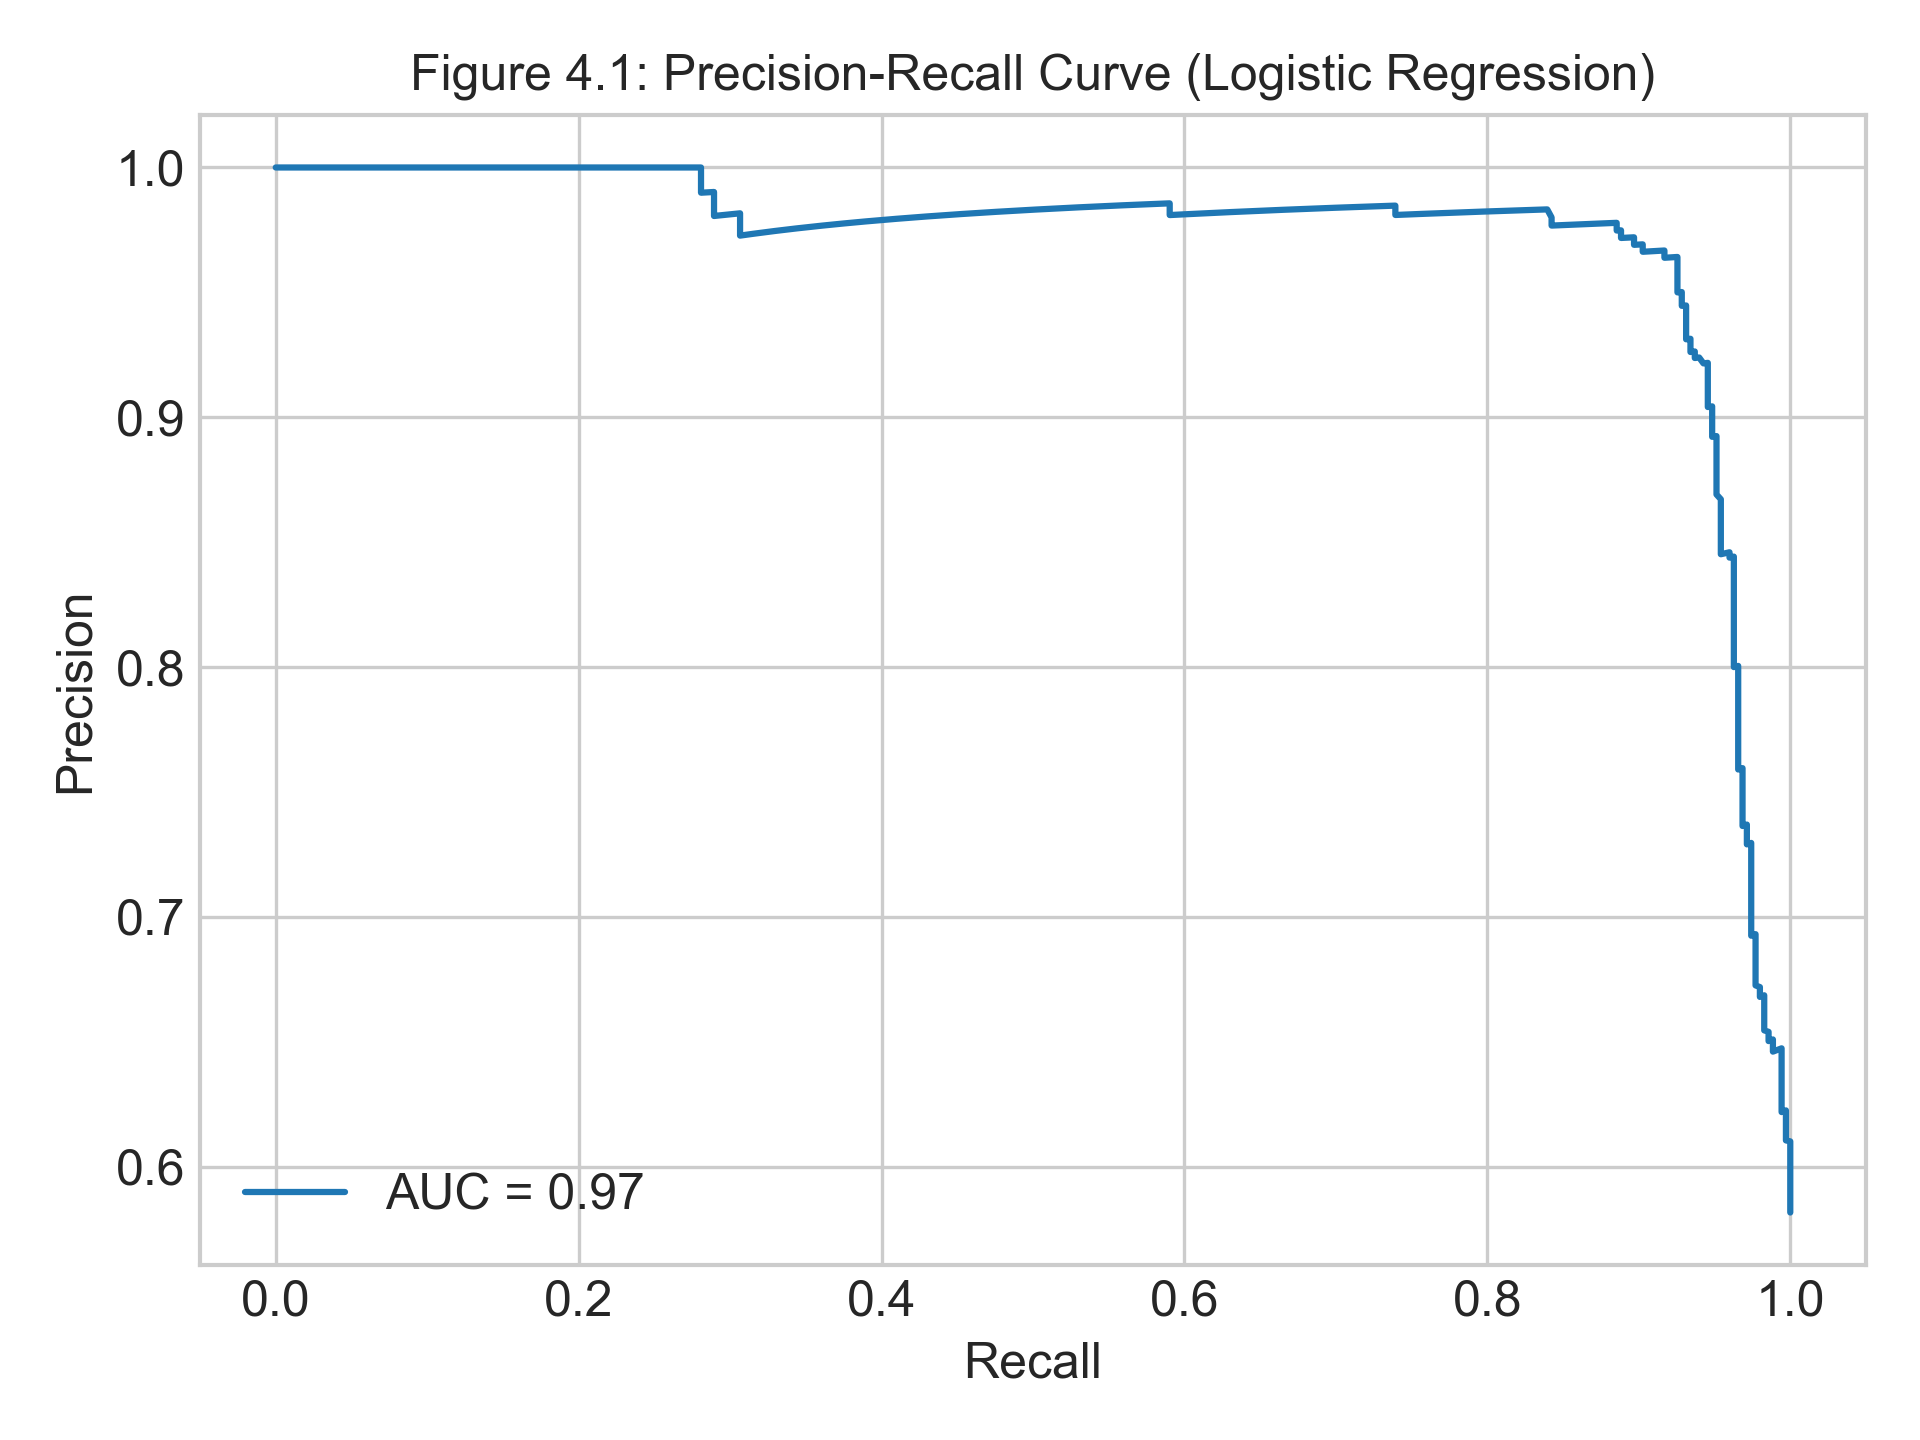
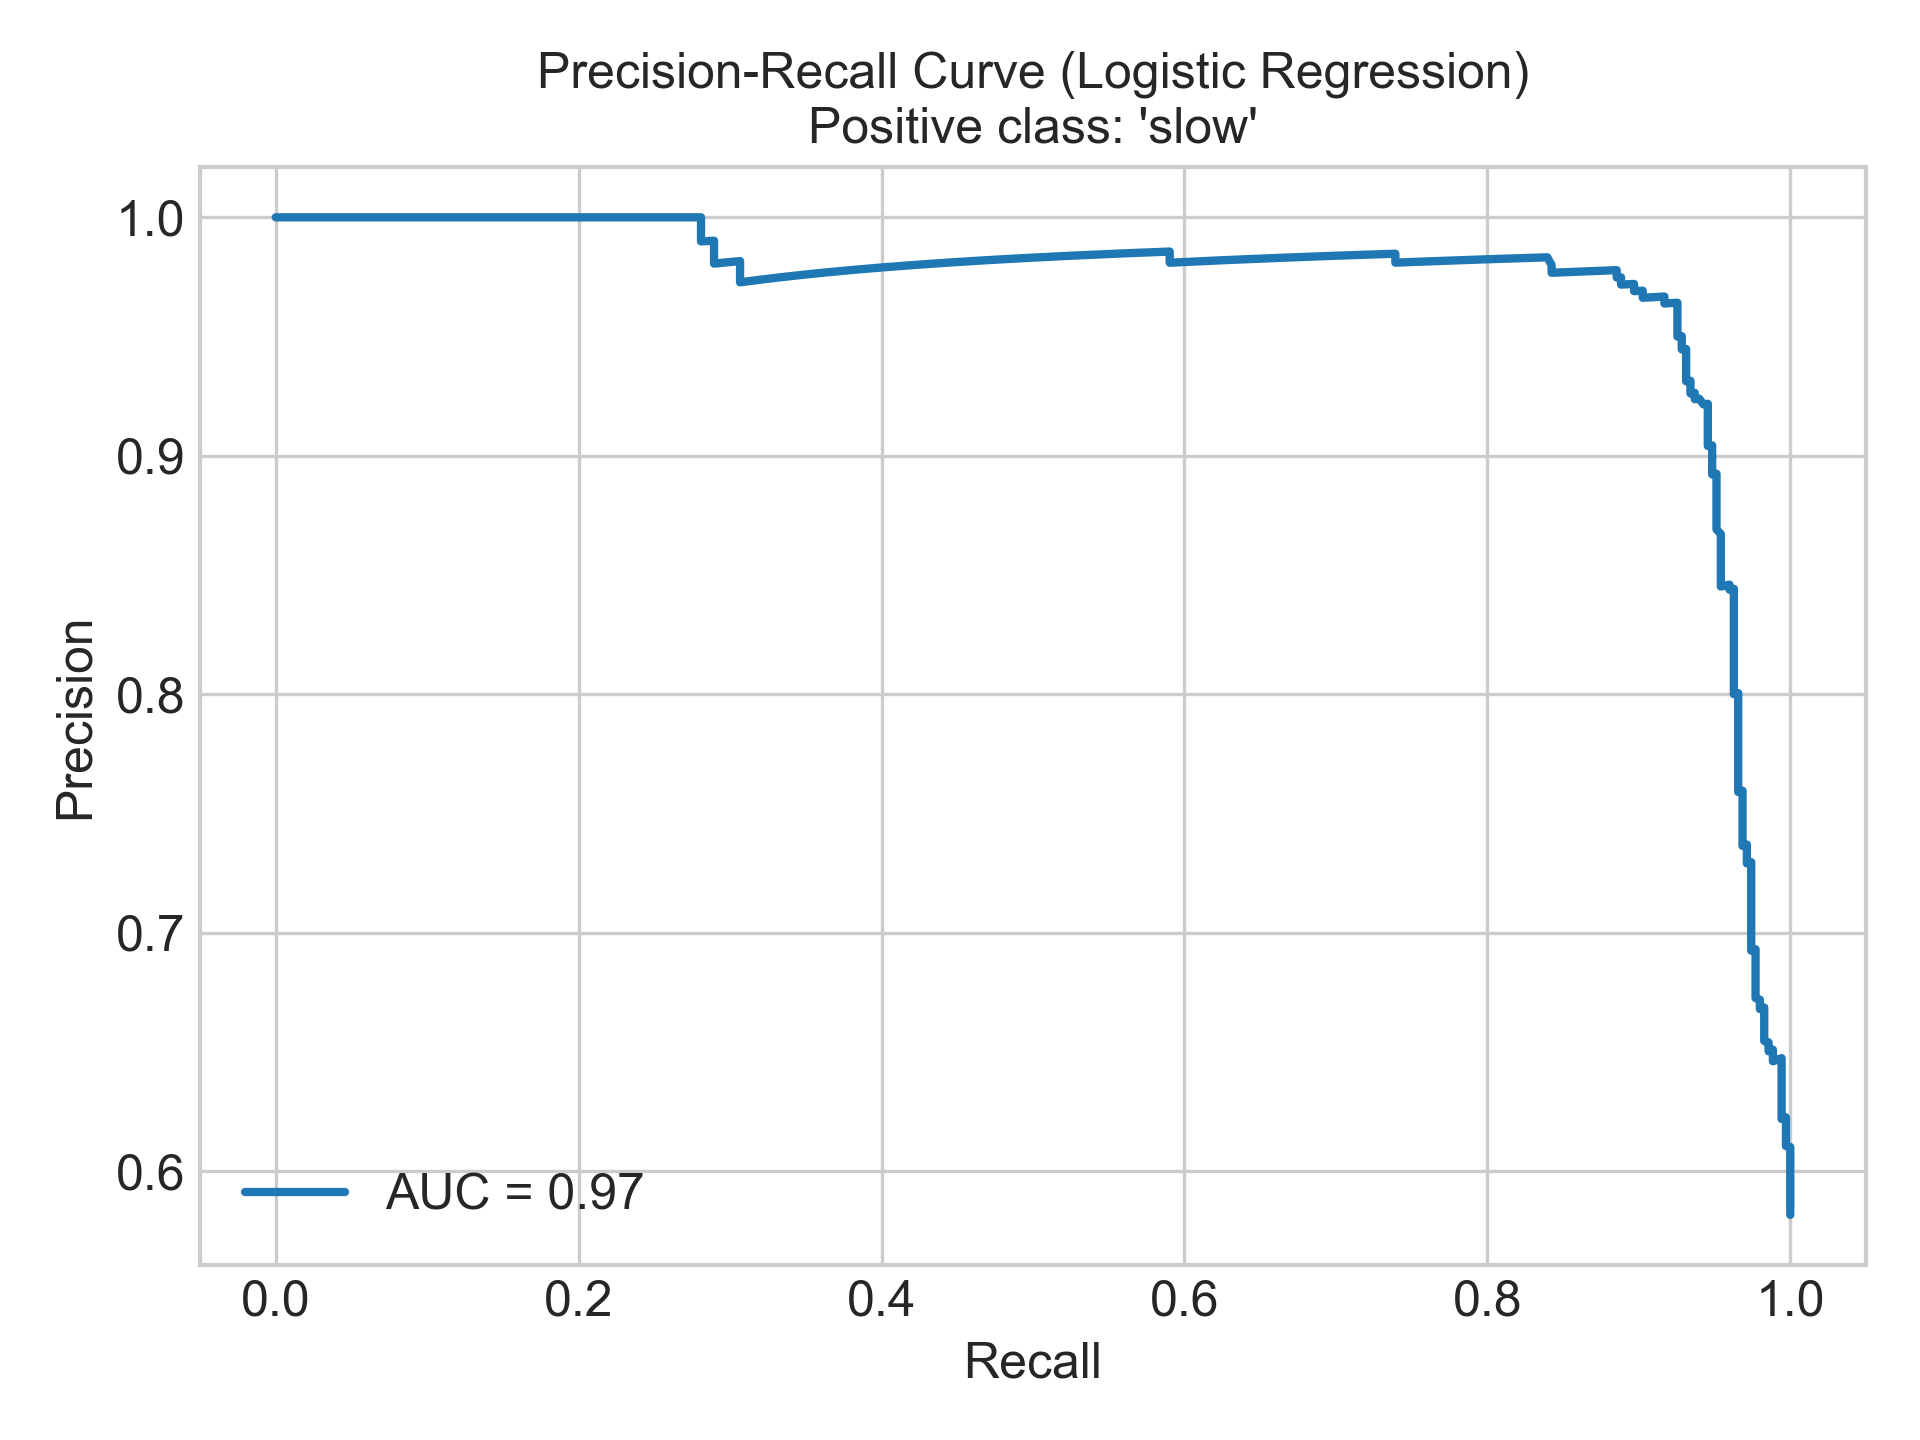
fix

diff --git a/ml/generate_figures.py b/ml/generate_figures.py
@@ -1,4 +1,4 @@
-"""Generate documentation figures for the project (Improved)."""
+"""Generate improved documentation figures for the project."""
 
 from __future__ import annotations
 from pathlib import Path
@@ -18,36 +18,13 @@ from sklearn.metrics import (
     precision_recall_curve,
     roc_curve,
     auc,
+    classification_report
 )
 
 # ---------- Paths ----------
 DATASET = Path(__file__).with_name("dataset.csv")
 FIG_DIR = Path(__file__).with_name("figures")
 FIG_DIR.mkdir(exist_ok=True)
-
-
-# ---------- Figure 1.1 Pipeline Overview ----------
-
-def pipeline_overview():
-    fig, ax = plt.subplots(figsize=(12, 2))
-    ax.axis('off')
-    stages = [
-        "Synthetic\nData",
-        "AST\nParsing",
-        "Feature\nExtraction",
-        "Model\nTraining",
-        "Evaluation",
-        "CLI\nIntegration",
-    ]
-    for i, stage in enumerate(stages):
-        ax.add_patch(Rectangle((i*1.8, 0.4), 1.6, 0.8, edgecolor='black', facecolor='#e0e0e0'))
-        ax.text(i*1.8+0.8, 0.8, stage, ha='center', va='center', fontsize=10)
-        if i < len(stages)-1:
-            ax.add_patch(FancyArrow(i*1.8+1.6, 0.8, 0.2, 0, width=0.03, length_includes_head=True, head_width=0.2))
-    ax.set_title("Figure 1.1: Project Pipeline Overview", fontsize=12)
-    fig.tight_layout()
-    fig.savefig(FIG_DIR / 'pipeline_overview.png', dpi=300)
-    plt.close(fig)
 
 
 # ---------- Utility: train simple model ----------
@@ -69,65 +46,85 @@ def load_and_train():
     return model, X_te, y_te, scaler
 
 
-# ---------- Figure 2.1 Sample Synthetic Component ----------
-
-def component_snippet():
-    src = (
-        Path(__file__).resolve().parents[1]
-        / "synthetic-react-app"
-        / "src"
-        / "pages"
-        / "test-data"
-        / "inefficientcontextTest1"
-        / "Parent.tsx"
-    )
-    code = src.read_text().splitlines()[:25]
-    fig, ax = plt.subplots(figsize=(8, 6))
-    ax.axis("off")
-    ax.text(0, 1, "\n".join(code), family="monospace", va="top", fontsize=10)
-    ax.set_title("Figure 2.1: Sample Synthetic React Component Snippet", fontsize=12)
-    fig.tight_layout()
-    fig.savefig(FIG_DIR / "component_snippet.png", dpi=300)
-    plt.close(fig)
-
-
 # ---------- Figure 3.1 Feature Distributions ----------
+
+# def feature_distribution():
+#     df = pd.read_csv(DATASET)
+#     features = [c for c in ["depth", "expensiveEffects", "bulkDOMNodes", "hasLargeImage"] if c in df.columns]
+#     fig, axes = plt.subplots(1, len(features), figsize=(5 * len(features), 4))
+#     if len(features) == 1:
+#         axes = [axes]
+#     for ax, feat in zip(axes, features):
+#         if df[feat].dropna().nunique() <= 2:
+#             counts = df[feat].value_counts().sort_index()
+#             ax.bar(counts.index.astype(str), counts.values, color="#4c72b0")
+#         else:
+#             ax.hist(df[feat], bins=10, color="#4c72b0")
+#         ax.set_title(feat, fontsize=10)
+#         ax.set_ylabel("Number of Components", fontsize=9)
+#         ax.tick_params(axis='both', labelsize=8)
+#     fig.suptitle(f"Feature Distributions in Synthetic Dataset (N={len(df)})", fontsize=12)
+#     fig.tight_layout(rect=[0, 0, 1, 0.95])
+#     fig.savefig(FIG_DIR / "feature_distribution.png", dpi=300)
+#     plt.close(fig)
 
 def feature_distribution():
     df = pd.read_csv(DATASET)
-    features = [c for c in ["depth", "expensiveEffects", "bulkDOMNodes", "hasLargeImage"] if c in df.columns]
-    fig, axes = plt.subplots(1, len(features), figsize=(5 * len(features), 4))
-    if len(features) == 1:
-        axes = [axes]
-    for ax, feat in zip(axes, features):
+    # features = [c for c in ["depth", "expensiveEffects", "bulkDOMNodes", "hasLargeImage"] if c in df.columns]
+    # Exclude columns that are identifiers or labels
+    exclude_cols = [
+        'pageName', 'label', 'LCP', 'FID', 'CLS', 'TBT',
+        'renderTime', 'jsBundleSizeKB', 'imageLoadTime', 'hasJank'
+    ]
+    features = [c for c in df.columns if c not in exclude_cols]
+
+
+    for feat in features:
+        plt.figure(figsize=(5, 4))
         if df[feat].dropna().nunique() <= 2:
             counts = df[feat].value_counts().sort_index()
-            ax.bar(counts.index.astype(str), counts.values, color="#4c72b0")
+            plt.bar(counts.index.astype(str), counts.values, color="#4c72b0")
         else:
-            ax.hist(df[feat], bins=10, color="#4c72b0")
-        ax.set_title(feat, fontsize=10)
-        ax.set_ylabel("Number of Components", fontsize=9)
-        ax.tick_params(axis='both', labelsize=8)
-    fig.suptitle("Figure 3.1: Feature Distributions in Synthetic Dataset", fontsize=12)
-    fig.tight_layout(rect=[0, 0, 1, 0.95])
-    fig.savefig(FIG_DIR / "feature_distribution.png", dpi=300)
-    plt.close(fig)
+            plt.hist(df[feat], bins=10, color="#4c72b0")
+
+        plt.title(f"{feat} Distribution (N={len(df)})", fontsize=12)
+        plt.ylabel("Number of Components", fontsize=10)
+        plt.xlabel(feat, fontsize=10)
+        plt.xticks(fontsize=9)
+        plt.yticks(fontsize=9)
+        plt.tight_layout()
+        plt.savefig(FIG_DIR / f"feature_{feat}.png", dpi=300)
+        plt.close()
+
 
 
 # ---------- Figure 4.x Evaluation Plots ----------
 
 def evaluation_plots():
     model, X_te, y_te, _ = load_and_train()
+    y_pred = model.predict(X_te)
     proba = model.predict_proba(X_te)[:, 1]
+
+    # Classification report
+    report = classification_report(y_te, y_pred, output_dict=True)
+    metrics_text = (
+        f"Accuracy: {report['accuracy']:.2f}\n"
+        f"Precision (fast): {report['fast']['precision']:.2f}\n"
+        f"Recall (fast): {report['fast']['recall']:.2f}\n"
+        f"F1 (fast): {report['fast']['f1-score']:.2f}\n"
+        f"Precision (slow): {report['slow']['precision']:.2f}\n"
+        f"Recall (slow): {report['slow']['recall']:.2f}\n"
+        f"F1 (slow): {report['slow']['f1-score']:.2f}"
+    )
 
     # Precision-Recall Curve
     prec, recall, _ = precision_recall_curve((y_te == "slow").astype(int), proba)
     pr_auc = auc(recall, prec)
     plt.figure()
-    plt.plot(recall, prec, label=f"AUC = {pr_auc:.2f}")
+    plt.plot(recall, prec, label=f"AUC = {pr_auc:.2f}", linewidth=2)
     plt.xlabel("Recall")
     plt.ylabel("Precision")
-    plt.title("Figure 4.1: Precision-Recall Curve (Logistic Regression)", fontsize=12)
+    plt.title("Precision-Recall Curve (Logistic Regression)\nPositive class: 'slow'", fontsize=12)
     plt.legend(loc="best")
     plt.grid(True)
     plt.tight_layout()
@@ -138,11 +135,11 @@ def evaluation_plots():
     fpr, tpr, _ = roc_curve((y_te == "slow").astype(int), proba)
     roc_auc = auc(fpr, tpr)
     plt.figure()
-    plt.plot(fpr, tpr, label=f"AUC = {roc_auc:.2f}")
+    plt.plot(fpr, tpr, label=f"AUC = {roc_auc:.2f}", linewidth=2)
     plt.plot([0,1], [0,1], linestyle='--', color='grey')
     plt.xlabel("False Positive Rate")
     plt.ylabel("True Positive Rate")
-    plt.title("Figure 4.2: ROC Curve (Logistic Regression)", fontsize=12)
+    plt.title("ROC Curve (Logistic Regression)\nPositive class: 'slow'", fontsize=12)
     plt.legend(loc="lower right")
     plt.grid(True)
     plt.tight_layout()
@@ -152,22 +149,23 @@ def evaluation_plots():
     # Confusion Matrix
     fig, ax = plt.subplots(figsize=(5, 4))
     disp = ConfusionMatrixDisplay.from_predictions(
-        y_te, model.predict(X_te),
+        y_te, y_pred,
         cmap='Blues',
         ax=ax,
         colorbar=True
     )
-    ax.set_title("Figure 4.3: Confusion Matrix (Logistic Regression)", fontsize=12)
+    for texts in disp.text_.ravel():
+        texts.set_fontsize(10)
+    ax.set_title("Confusion Matrix (Logistic Regression)", fontsize=12)
+    plt.figtext(0.5, -0.25, metrics_text, wrap=True, horizontalalignment='center', fontsize=10)
     fig.tight_layout()
-    fig.savefig(FIG_DIR / "confusion_matrix.png", dpi=300)
+    fig.savefig(FIG_DIR / "confusion_matrix.png", dpi=300, bbox_inches="tight")
     plt.close(fig)
 
 
 # ---------- Main ----------
 
 def main():
-    pipeline_overview()
-    component_snippet()
     feature_distribution()
     evaluation_plots()
     print(f'Figures saved to {FIG_DIR}')

diff --git a/ml/report_tables.md b/ml/report_tables.md
@@ -3,9 +3,9 @@
 | model               |   precision |   recall |       f1 |   roc_auc |
 |:--------------------|------------:|---------:|---------:|----------:|
 | logistic_regression |    0.950147 | 0.928367 | 0.93913  |  0.959668 |
-| random_forest       |    0.925287 | 0.922636 | 0.92396  |  0.952128 |
+| random_forest       |    0.932945 | 0.916905 | 0.924855 |  0.952956 |
 | gradient_boosting   |    0.958457 | 0.925501 | 0.941691 |  0.955011 |
-| random_baseline     |    0.585209 | 0.52149  | 0.551515 |  0.503773 |
+| random_baseline     |    0.541528 | 0.467049 | 0.501538 |  0.458624 |
 | static_thresholds   |    0.631347 | 0.904353 | 0.743584 |  0.584553 |
 | eslint_heuristics   |    0.711129 | 0.497709 | 0.58558  |  0.608105 |
 
